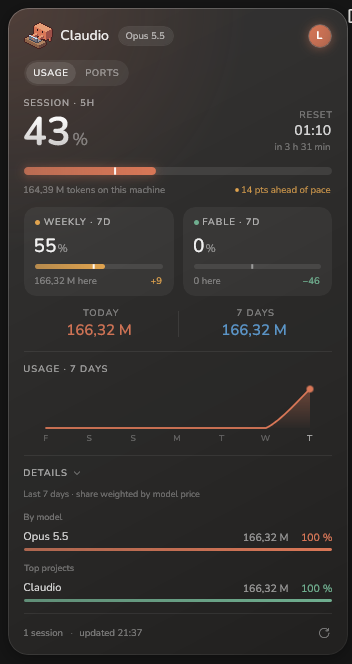
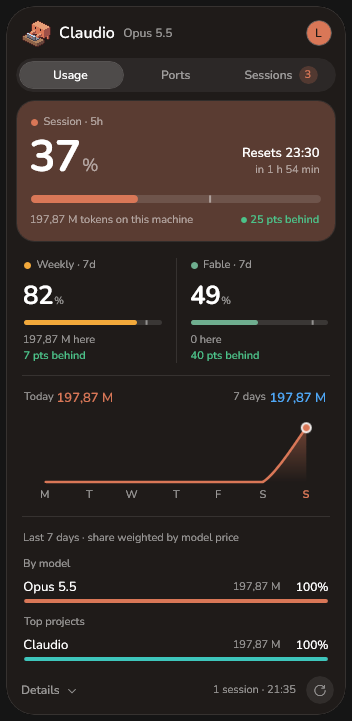
chore: release 1.6.0
Claudio takes Claudy's version number: 1.6.0 brings everything Claudy 1.6.0
has, on Windows. Each release now carries its section of the changelog, and
the READMEs show the new card and the agent room.

diff --git a/CHANGELOG.md b/CHANGELOG.md
@@ -2,43 +2,94 @@
 
 All notable changes to this project are documented here. Dates are release dates.
 
-## Unreleased
+## 1.6.0 (16 November 2026)
 
-Everything Claudy 1.5.8 and 1.6.0 brought, on Windows.
+Claudio catches up with Claudy 1.6.0: the same features, on Windows, under the same version
+number from now on.
 
 ### Added
 
-- **Sessions tab.** Every Claude Code session open on the PC, read from Claude Code's own
-  session files: the ones waiting for your answer first, in amber, then those at work, then those
-  at rest, each with the agents it runs. A click unfolds a session (its folder, its app, its last
-  prompt), with **Open**, which brings forward the app it runs in (Windows Terminal, VS Code,
-  Cursor, a console…), and **Interrupt**, which sends it Ctrl+C after a confirmation naming it.
-  Each agent has its own Claudy and colour, its track over the last ten minutes, writes in coral,
-  silence called out after three minutes, done for ten minutes with the files it wrote.
-- **Agent room.** A window of its own, opened from the menus, the Sessions tab or Ctrl+Alt+R: one
-  open space per project, every agent at a desk in the area of its work, its screen showing what
-  it does, read from its tool calls; Claudy at the centre desk with the session quota as a ring.
-  The window's sky, sun, moon, city lights and weather follow the PC's clock and the date.
-- **Notifications**, one switch each: session at 80 %, limit before the reset, session back, a
-  session waiting for you, an agent gone silent, an agent done. A click on one about a session
-  opens its app; about an agent, its desk.
-- **Ctrl+Alt+C** shows or hides Claudio from any app; the menus say when another app holds it.
-- **Export usage as CSV…**: the last seven days, one line per hour, project and model, with the
-  list price of those tokens. Local transcripts only, never the demo set.
-- **MCP servers left behind** in the Ports tab, with the memory each one holds, killed as a tree.
-- The short card above the clock and the island list the waiting sessions and the agents; next to
-  the clock, an amber hand and the lead agent's Claudy join the figure.
+- **Agent room.** "Open agent room" opens a window in the middle of the screen: one open space
+  per project, Claudy at the centre desk for the session, its agents at the desks around, in the
+  area of their work (writing, commands, research, and a spare area that takes the overflow).
+  Each screen shows what its agent does, read from the tool, the file and the command of its
+  last call: code, docs, spec, design, search, review, web, tests, build, benchmark, install,
+  git, data, infra, deploy, security, or the name of the skill or MCP server at work. An agent
+  whose work changes walks to another desk. The window tells the hour: the sun in the middle at
+  noon, the city's windows lighting up as it sets, nearly all lit at nine, going out towards
+  midnight. The room follows the PC's clock. A robot vacuum leaves its dock by the back wall,
+  goes round the corridors and comes back to charge. Claudy's first screen shows what the
+  session itself does between two agents. A click on a desk opens its agent's card: what it was
+  asked, what it does, its last calls, the files it wrote. An agent that is done goes and sits on
+  the sofa, and leaves by the door when it leaves the list. Past 90 % of the session quota the
+  racks turn red and the room's edges glow. A click on Claudy's second screen opens a summary of
+  the session in sentences, with Open and Interrupt.
+- **More of the agent room.** Ctrl+Alt+R opens it from any app, and `Claudio.exe --room` opens it
+  at launch. With several projects open, "All" shows every one as a small room, a click enters
+  it. A banner about an agent, silent or done, opens the room on its desk. An agent that waits
+  dozes at its desk. The window has weather: each day its own, decided by its date, rain some
+  days and snow in winter, or the one chosen in the room's menu. A cross beside a room's name,
+  under the pointer, puts the room away; the room's menu brings it back.
+- **Sessions.** A third tab lists every Claude Code session open on the PC: the ones waiting for
+  an answer first, in amber, with what they wait for ("Permission prompt"); then those at work,
+  then those at rest with how long they have been idle. Each session shows the subagents it runs
+  underneath: what each was asked, for how long, the file it is touching and its last ten
+  minutes as a track, with its own Claudy in its own colour. Read from Claude Code's own files,
+  nothing to install. Sessions a program drives through the Agent SDK only show while they run
+  agents. Sessions inside WSL are not listed: Windows cannot check their processes.
+- **Open a session's window.** "Open" brings forward the app a session runs in (Windows
+  Terminal, VS Code, Cursor, a JetBrains IDE, or the console it was opened in), found up its
+  process tree. A session unfolds to its folder, its app, the last thing asked of it, and the
+  buttons.
+- **Interrupt a session from the card.** After a confirmation that names the session, Claudio
+  sends its console Ctrl+C, which stops the turn and every agent of that session and leaves the
+  session open. The process is held and checked against the session's recorded start time first,
+  so a pid reused by another process is never signalled.
+- **Agents that stall, agents that are done.** Three minutes without a word and the row says so,
+  in amber: "silent 4 min". A finished agent stays ten minutes with the number of files it wrote.
+- **A session waiting for you shows everywhere.** The open island and the short card above the
+  clock put it first, with "Open"; the island at rest turns amber with a raised hand, and a click
+  on the ears opens the session's app; next to the clock, an amber hand joins the figure, and the
+  lead agent's Claudy with the count while agents run.
+- **Notifications.** Session at 80 %, the limit coming before the reset at the current pace, the
+  session back after a full window, a session waiting for you, an agent gone silent, an agent
+  done (off by default). One switch each under Notifications in the right-click menu. A click on
+  a banner about a session brings its app forward; a waiting banner is taken back once the
+  session moves on.
+- **Ctrl+Alt+C shows or hides Claudio** from any app: the card, the short card or the island,
+  wherever it stands. When another app holds the shortcut, the menu says so.
+- **MCP servers left behind.** The Ports tab lists the MCP servers a closed Claude Code session
+  left running, with the memory each one holds, and kills them like an orphaned port.
+- **Export usage as CSV.** The last seven days from the local transcripts, one line per hour,
+  project and model: the four token counts and what they weigh at list price. Never the demo set.
+- **The short lists say more.** The short card and the island list four agents with their state
+  in colour, and "+N more" opens the widget. The island at rest shows the count alone, in the
+  lead agent's colour.
 
 ### Changed
 
-- **The card follows Claudy's new look**: the session in a tile of its own, the weekly windows and
-  the week's curve on the glass apart by hairlines, sentence-case labels, three tones of text,
-  count badges and pill buttons, a warm veil over the glass, no more glows or gradients.
-- One colour per window: coral for the session, sky for the week, violet for Sonnet, teal for
-  Haiku. Amber and red now only warn.
-- The icon sits on a cream tile.
-- The mascot holds still in a hidden window, and next to the clock it types at half pace and is
-  redrawn only when its frame changes.
+- **Claudy's new look.** Windows has no Liquid Glass: the card takes Claudy's layout on its
+  window material under a warm veil, so the text stays readable over any wallpaper. The session,
+  the figure you come for, sits in a coral tile of its own; the weekly and per-model windows and
+  the week's curve lie on the glass, apart by a hairline. A session waiting for you is the only
+  other block.
+- **One colour per window.** Coral for the session, sky for the week, violet for Sonnet, teal for
+  Haiku. Amber and red no longer name a window: a gauge only turns amber or red when it nears its
+  limit.
+- **Easier to read.** Labels in sentence case instead of spaced capitals, no text under 11 points,
+  three text tones, ports and file names in monospace, no more glows, gradient figures or pills
+  around every count. The week's totals now sit in the curve's header.
+- **The icon sits on a cream tile**, as Claudy's.
+- **Release notes.** Each GitHub release now carries its section of this changelog.
+
+### Fixed
+
+- **Claudio at rest costs less.** The mascot stops moving in a window nobody sees: a hidden
+  card, a closed short card, the agent room once closed. The icon next to the clock is only
+  redrawn when its frame changes and types at half the pace, and the wave is redrawn at each of
+  its frames instead of thirty times a second.
+- **A damaged Claude Code file costs one value, not the list.** A date no date can hold, or half
+  an emoji cut in a transcript, no longer stops the sessions from being read.
 
 ## 1.0.3 (7 October 2026)
 

diff --git a/docs/architecture.md b/docs/architecture.md
@@ -100,5 +100,5 @@ apply it when Claudio quits, or at once from the card (`Services/UpdateChecker.c
 Every push builds both installers in CI (*Claudio-Setup-win-x64* artifact). Releasing is changing
 `<Version>` in `Directory.Build.props` and merging it into `main`: the *Release* workflow tags that
 version (a suffix such as `-beta.1` makes it a pre-release), builds both installers again, attests their provenance (`gh attestation verify`), and publishes the release with Velopack's update
-packages. A version already released is never built twice. The icon is Claudy's: `Scripts/make-icon.py` packs
+packages. The release notes are the version's section of `CHANGELOG.md`. A version already released is never built twice. The icon is Claudy's: `Scripts/make-icon.py` packs
 `claudy/Design/icon/*.png` into `Assets/Claudio.ico`.

diff --git a/README.fr.md b/README.fr.md
@@ -14,7 +14,9 @@
 
 <p align="center"><img src="docs/claudio-typing.gif" width="132" alt="Claudio, la mascotte en pixel art, qui tape sur son ordinateur"></p>
 
-<p align="center"><img src="docs/claudio-card.png" width="352" alt="La carte Claudio : session 5 h, quotas hebdomadaires, totaux du jour, courbe sur 7 jours, répartition par modèle et par projet"></p>
+<p align="center"><img src="docs/claudio-card.png" width="352" alt="La carte Claudio : la session 5 h dans sa tuile, les fenêtres hebdomadaire et par modèle, la courbe de la semaine, répartition par modèle et par projet"></p>
+
+<p align="center"><img src="docs/claudio-room.png" width="620" alt="La salle des agents : un open space par projet, chaque agent à un bureau dans la zone de son travail, Claudy au bureau central"></p>
 
 </div>
 

diff --git a/README.md b/README.md
@@ -14,7 +14,9 @@
 
 <p align="center"><img src="docs/claudio-typing.gif" width="132" alt="Claudio, the pixel mascot, typing at its laptop"></p>
 
-<p align="center"><img src="docs/claudio-card.png" width="352" alt="The Claudio card: 5h session, weekly quotas, daily totals, 7-day curve, split by model and project"></p>
+<p align="center"><img src="docs/claudio-card.png" width="352" alt="The Claudio card: the 5h session in its tile, the weekly and per-model windows, the week's curve, split by model and project"></p>
+
+<p align="center"><img src="docs/claudio-room.png" width="620" alt="The agent room: one open space per project, every agent at a desk in the area of its work, Claudy at the centre desk"></p>
 
 </div>
 
